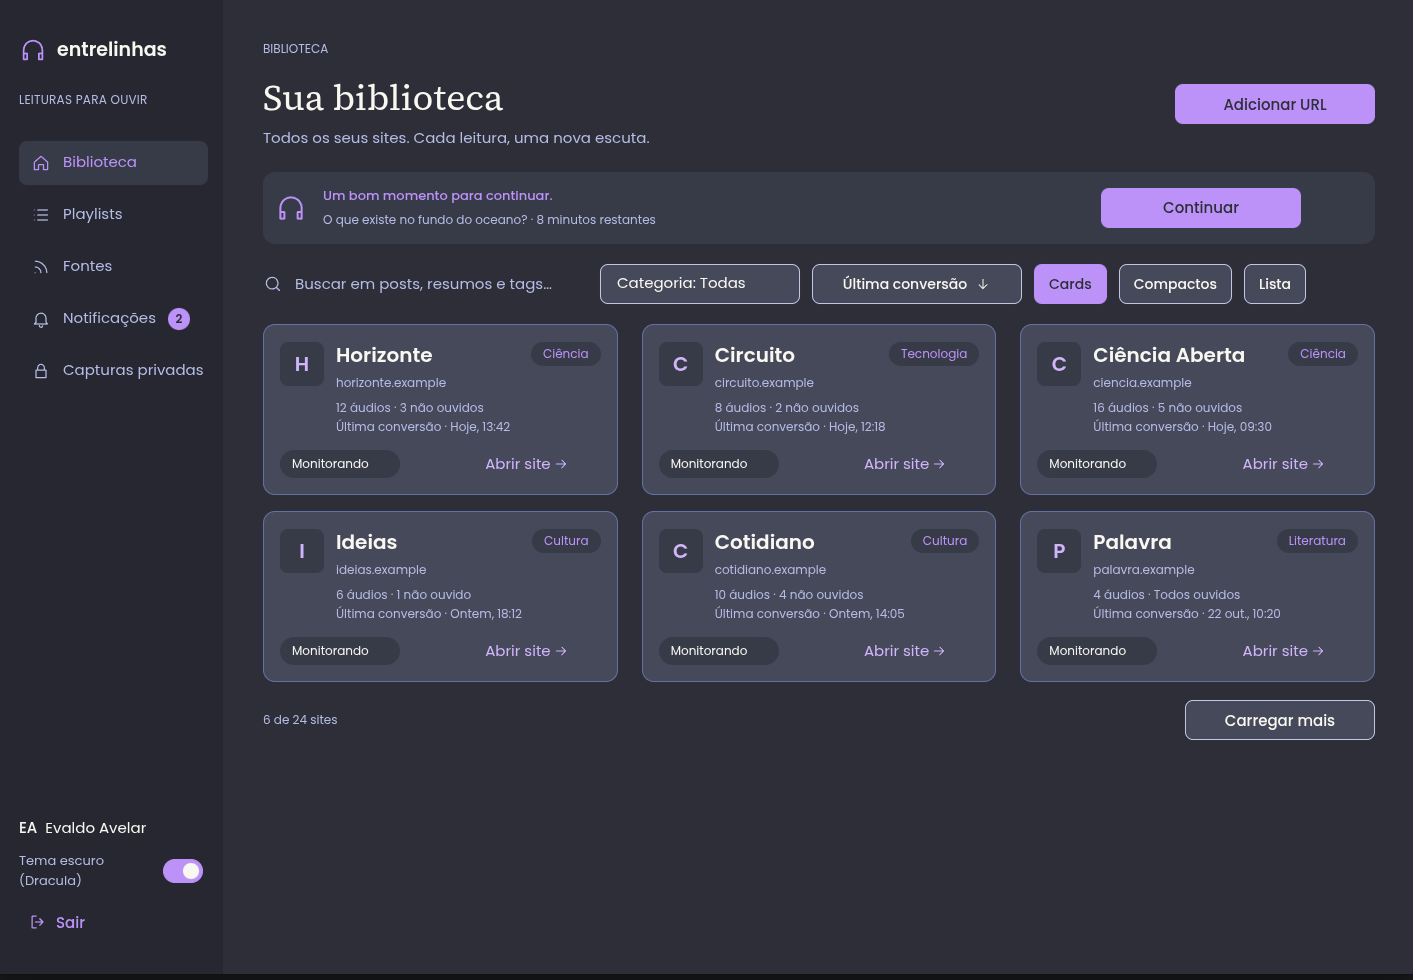
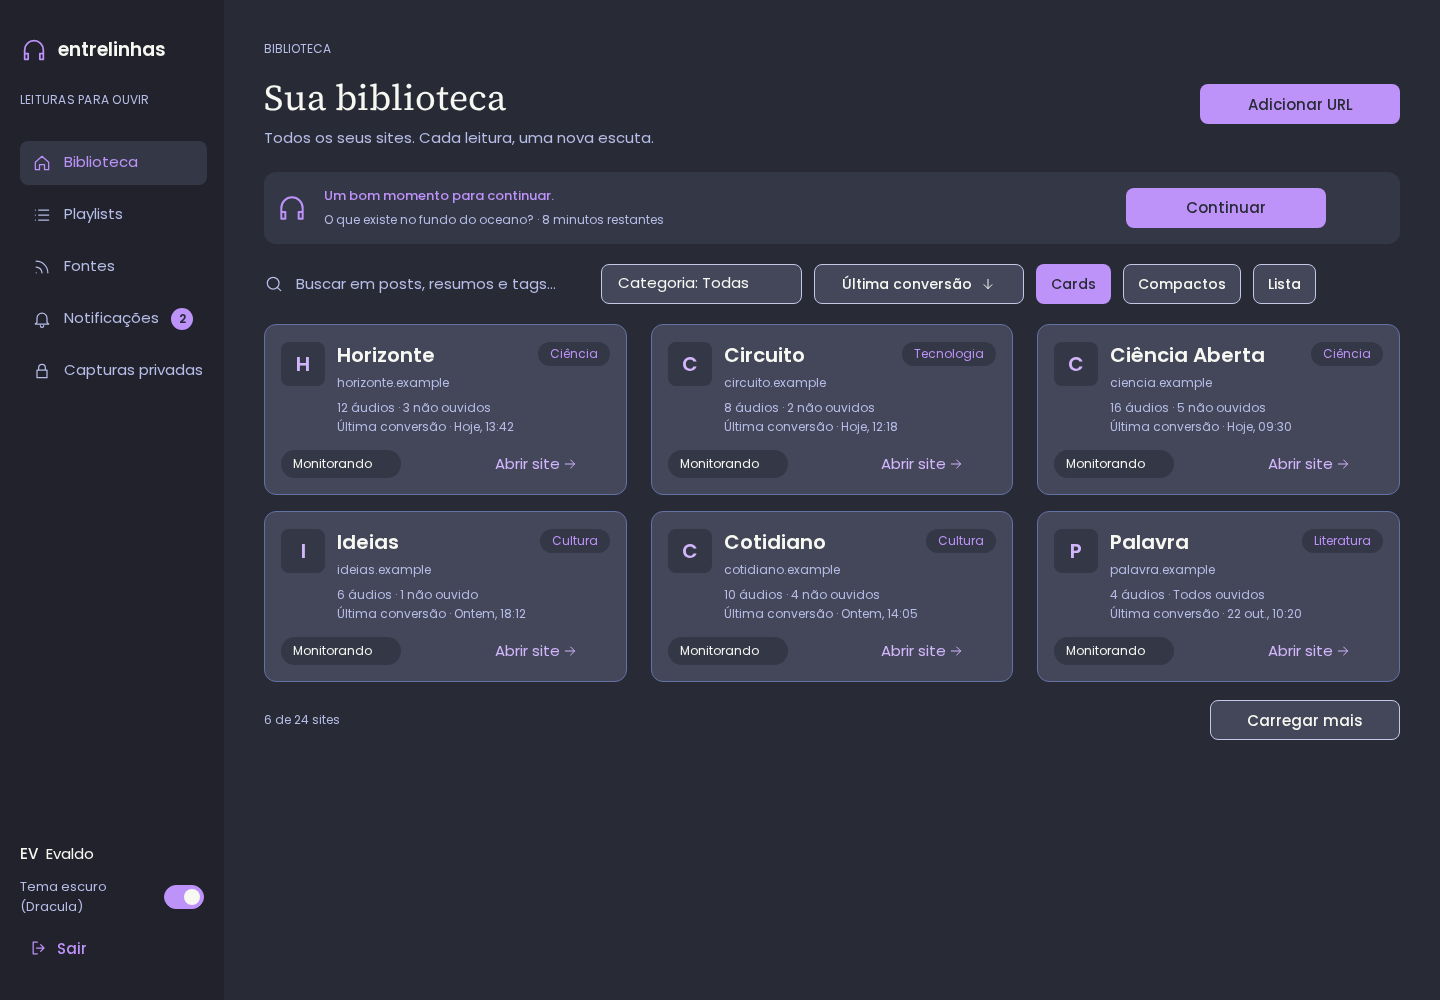
chore: remove mentions of Evaldo Avelar and ValueTI from codebase, docs and preview asset

diff --git a/tests/e2e/login.spec.ts b/tests/e2e/login.spec.ts
@@ -4,10 +4,10 @@ test('household login: keyboard profile choice, wrong password, then library (RF
   await page.goto('/library');
   await expect(page.getByRole('heading', { level: 1, name: 'Quem vai ouvir?' })).toBeVisible();
   const group = page.getByRole('radiogroup', { name: 'Perfil' });
-  await expect(group.getByRole('radio', { name: 'Evaldo Avelar' })).toBeChecked();
+  await expect(group.getByRole('radio', { name: 'Evaldo' })).toBeChecked();
 
   // Keyboard: arrows move the selection inside the radio group.
-  await group.getByRole('radio', { name: 'Evaldo Avelar' }).focus();
+  await group.getByRole('radio', { name: 'Evaldo' }).focus();
   await page.keyboard.press('ArrowRight');
   await expect(group.getByRole('radio', { name: 'Ana' })).toBeChecked();
   await expect(group.getByRole('radio', { name: 'Ana' })).toBeFocused();
@@ -33,7 +33,7 @@ test('admin link leads to the individual admin login', async ({ page }) => {
 // Reviewed baselines (frame 26 comparison in docs/tasks/handoffs/TASK-010.md); never auto-updated.
 test('login visual baseline (frame 26, TASK-010)', async ({ page }, info) => {
   await page.goto('/login');
-  await expect(page.getByRole('radio', { name: 'Evaldo Avelar' })).toBeChecked();
+  await expect(page.getByRole('radio', { name: 'Evaldo' })).toBeChecked();
   const password = page.getByLabel('Senha da casa');
   await password.fill('casa-exemplo');
   await password.blur();

diff --git a/apps/frontend/src/features/auth/LoginPage.test.tsx b/apps/frontend/src/features/auth/LoginPage.test.tsx
@@ -25,7 +25,7 @@ function renderLogin(from?: string) {
 test('loads public profiles as an accessible radio group and selects one by keyboard', async () => {
   renderLogin();
   const group = await screen.findByRole('radiogroup', { name: 'Perfil' });
-  const evaldo = within(group).getByRole('radio', { name: 'Evaldo Avelar' });
+  const evaldo = within(group).getByRole('radio', { name: 'Evaldo' });
   const ana = within(group).getByRole('radio', { name: 'Ana' });
   expect(evaldo).toBeChecked();
   expect(screen.getByText(/PIN para capturas privadas/)).toBeInTheDocument();
@@ -95,6 +95,6 @@ test('successful login without return location goes to library', async () => {
   await screen.findByRole('radio', { name: 'Ana' });
   await userEvent.type(screen.getByLabelText('Senha da casa'), 'casa-exemplo');
   await userEvent.click(screen.getByRole('button', { name: 'Entrar' }));
-  expect(await screen.findByText('Destino: Evaldo Avelar')).toBeInTheDocument();
+  expect(await screen.findByText('Destino: Evaldo')).toBeInTheDocument();
   expect(router.state.location.pathname).toBe('/library');
 });

diff --git a/apps/frontend/src/theme/tokens.css b/apps/frontend/src/theme/tokens.css
@@ -1,7 +1,7 @@
 /*
  * Design tokens — single source (TASK-004). Colour pairs are checked for WCAG contrast by tokens.test.ts.
  * Dark = Dracula, sampled from prototype/*.png (docs/design/prototype-map.md).
- * Light = ValueTI white/blue/gold: no frame exists; derived with the same geometry (design extension).
+ * Light = white/blue/gold: no frame exists; derived with the same geometry (design extension).
  * Divergence: frames use Dracula "comment" #6272a4 for secondary text (1.94:1 on cards); muted text is
  * lightened to keep CA27, and purple text on cards uses a lighter tint of the primary.
  */

diff --git a/apps/frontend/src/app/shell.test.tsx b/apps/frontend/src/app/shell.test.tsx
@@ -36,7 +36,7 @@ test('signed-in shell shows navigation, current page, profile and unread badge',
   const nav = await screen.findByRole('navigation', { name: 'Principal' });
   expect(within(nav).getByRole('link', { name: 'Biblioteca' })).toHaveAttribute('aria-current', 'page');
   expect(within(nav).getByRole('link', { name: /Notificações/ })).toHaveAccessibleName('Notificações 2 notificações não lidas');
-  expect(screen.getByText('Evaldo Avelar')).toBeInTheDocument();
+  expect(screen.getByText('Evaldo')).toBeInTheDocument();
   expect(screen.getByRole('main')).toBeInTheDocument();
 });
 

diff --git a/apps/frontend/src/mocks/handlers/session.ts b/apps/frontend/src/mocks/handlers/session.ts
@@ -80,6 +80,6 @@ export const sessionHandlers = [
       return errorResponse(401, 'invalid_credentials', 'Usuário, senha ou código incorretos.');
     }
     const expires = new Date(Date.parse(MOCK_NOW) + 15 * 60_000).toISOString();
-    return ok(AdminSession, { admin: { id: 'adm_evaldo', username: 'evaldo', display_name: 'Evaldo Avelar' }, idle_expires_at: expires }, 201);
+    return ok(AdminSession, { admin: { id: 'adm_evaldo', username: 'evaldo', display_name: 'Evaldo' }, idle_expires_at: expires }, 201);
   }),
 ];

diff --git a/apps/frontend/src/mocks/fixtures.ts b/apps/frontend/src/mocks/fixtures.ts
@@ -6,7 +6,7 @@ export const MOCK_NOW = '2026-10-27T15:00:00-03:00';
 export const HOUSEHOLD_PASSWORD = 'casa-exemplo';
 
 export const profiles: ProfilePublic[] = [
-  { id: 'prof_evaldo', display_name: 'Evaldo Avelar', initials: 'EA', has_pin: true },
+  { id: 'prof_evaldo', display_name: 'Evaldo', initials: 'EV', has_pin: true },
   { id: 'prof_ana', display_name: 'Ana', initials: 'AN', has_pin: false },
   { id: 'prof_convidado', display_name: 'Convidado', initials: 'CV', has_pin: false },
 ];

diff --git a/apps/frontend/src/mocks/mocks.test.ts b/apps/frontend/src/mocks/mocks.test.ts
@@ -36,7 +36,7 @@ describe('session (simulated)', () => {
 
   test('public profiles list', async () => {
     const { items } = await api.listPublicProfiles();
-    expect(items.map((p) => p.initials)).toEqual(['EA', 'AN', 'CV']);
+    expect(items.map((p) => p.initials)).toEqual(['EV', 'AN', 'CV']);
   });
 
   test('admin login requires username, password and TOTP (simulated)', async () => {

diff --git a/docs/specs/requisitos-leitor-de-blogs.md b/docs/specs/requisitos-leitor-de-blogs.md
@@ -55,7 +55,7 @@ Uma casa, biblioteca comum e perfis de escuta, sem múltiplas famílias/cobranç
 | RF37 | Permitir alternar a visualização do dashboard entre cards, cards compactos e lista. | Solicitado |
 | RF38 | Carregar os itens do dashboard sob demanda, mantendo pesquisa e ordenação sobre o conjunto completo. | Solicitado; consistência de pesquisa/ordenação proposta |
 | RF39 | Preservar o modo de visualização escolhido entre visitas. | Proposta |
-| RF40 | Oferecer tema escuro baseado em Dracula e tema claro branco, dourado e azul alinhado à logo ValueTI fornecida. | Solicitado |
+| RF40 | Oferecer tema escuro baseado em Dracula e tema claro branco, dourado e azul. | Solicitado |
 | RF41 | Permitir alternar temas e salvar a preferência no perfil. | Proposta |
 | RF42 | Atender uma casa com biblioteca compartilhada, senha de escuta e seleção de perfis; capturas privadas têm exceção de visibilidade e desbloqueio individual. | Escopo doméstico confirmado; privacidade da revisão |
 | RF43 | Oferecer troca de perfil e manter progresso, histórico de escuta e playlists separados por perfil. | Seleção solicitada; isolamento proposto |
@@ -109,7 +109,7 @@ Dashboard em cards, compactos e lista; filtros de busca/categoria combinam com o
 
 Player com pausa/retomada, velocidade, fila e voz consistente; download não equivale a ouvido. Playlist referencia artigo lógico e fixa a versão durante a reprodução; indisponível é sinalizado/pulado. Nova voz da mesma versão preserva ouvido lógico; conteúdo alterado ganha versão de consumo própria.
 
-Claro branco/azul/dourado alinhado à logo ValueTI e escuro Dracula, com contraste/foco/teclado e preferência por perfil. “Entrelinhas” continua nome provisório, sem mudança de marca decidida nesta revisão.
+Claro branco/azul/dourado e escuro Dracula, com contraste/foco/teclado e preferência por perfil.
 
 ## 4. Conteúdo, imagens, voz e captura
 
@@ -304,7 +304,7 @@ TDD, cobertura e CI são obrigações desde a fundação. Limites numéricos, ja
 - v0.1: entrada URL, biblioteca por site, automação, tags/capa/resumo, retenção, OpenRouter/MCP.
 - v0.2: descrição narrada de imagens e voz gratuita selecionável.
 - v0.3: análise visual configurável/alternativa textual, Docker, playlists e três visualizações.
-- v0.4: temas ValueTI/Dracula, perfis, links e categorias.
+- v0.4: temas Claro/Dracula, perfis, links e categorias.
 - v0.5: ponte Python/execução agy automática proposta inicialmente por webhook.
 - v0.6: instalação agy/Python em Docker confirmada; coabitação inicialmente proposta.
 - v0.7: defesa contra prompt injection, ponte/runner separados e Slim opcional.

diff --git a/docs/design/prototype-map.md b/docs/design/prototype-map.md
@@ -7,7 +7,7 @@ Fonte complementar: `prototype/Entrelinhas — Leitor de blogs em áudio.figcraf
 ## Observações globais (derivadas dos frames)
 
 - **Tema:** todos os 37 frames são Dracula (escuro). Cores amostradas por pixel: fundo `#282a36`, sidebar/topo público `#21222c`, superfície `#44475a`, superfície rebaixada `#343746`, roxo `#bd93f9` (primário/ativo), verde `#50fa7b`, ciano `#8be9fd`, laranja `#ffb86c`, vermelho Dracula (`#ff5555`, ações destrutivas), texto secundário `#6272a4` (comment), texto principal `#f8f8f2`.
-- **Tema claro ValueTI:** **não há frame**. Extensão do design: mesma geometria, branco/azul/dourado via tokens (TASK-004), registrado como derivação.
+- **Tema claro:** **não há frame**. Extensão do design: mesma geometria, branco/azul/dourado via tokens (TASK-004), registrado como derivação.
 - **Tipografia:** títulos de página em serifa (estilo Source Serif); UI em sans geométrica (Poppins nos frames 19–37; frames 01–15 têm sans geométrica muito próxima). Decisão: Source Serif 4 (display) + Poppins (UI), empacotadas localmente via `@fontsource` (sem CDN, determinístico para screenshots).
 - **Layout desktop 1440×1000:** sidebar fixa 224px (logo, subtítulo, navegação, card de status, perfil); conteúdo a partir de x=264 com margem direita 40; título serifado ~36px em y≈97; ação primária no topo direito (200×40, raio 8); barra do player fixa ~105px no rodapé com borda superior.
 - **Admin:** sidebar com rótulo laranja "PAINEL DO ADMINISTRADOR", navegação própria e card "Sessão de administrador · expira após 15 min sem uso"; abas em botões (Imagens, Voz e limpeza, Integrações, Pareamentos, Quotas e backlog, Telegram). Sem barra de player.
@@ -60,7 +60,7 @@ Fonte complementar: `prototype/Entrelinhas — Leitor de blogs em áudio.figcraf
 
 | Lacuna | Derivação |
 | --- | --- |
-| Tema claro ValueTI de todas as telas | Tokens claros, mesma geometria (TASK-004) |
+| Tema claro de todas as telas | Tokens claros, mesma geometria (TASK-004) |
 | Mobile de telas além da biblioteca | Padrão do frame 16: tab bar inferior, mini player, cards em coluna |
 | Estados vazio/carregando/erro 4xx/5xx/429/503 genéricos | Superfície `#343746` com callout; skeletons nas dimensões dos cards |
 | Sessão expirada (401) e perfil bloqueado em rotas privadas | Redirecionar para frames 26/29 com mensagem |

diff --git a/docs/tasks/handoffs/TASK-012.md b/docs/tasks/handoffs/TASK-012.md
@@ -29,7 +29,7 @@
 Frames (sha256 prefixo): 01 `c0af61b48c8cfc42`, 02 `fbabbcb1a1f89fc4`, 03 `cc96d0fcecc70d4b`, 16 `242cb729e5bf95fe`, 18 `6361b3ff49e486a1`. Abertos e comparados com capturas da app em 1440×1000 (dark/light) e 390×1100 (dark/light). Evidência: `docs/design/evidence/TASK-012/` (cópia estática das baselines `tests/e2e/library.spec.ts-snapshots/`).
 
 - Conferem: cabeçalho e botão "Adicionar URL" 200 px; banner "continuar"; toolbar em uma linha (busca sem caixa, categoria, ordenar 210 px, modos); grade 3 colunas (cards), 2 (compactos), 1 (lista, colunas nome/categoria/métricas); cartões 12 px de raio com chip de categoria, métricas recuadas sob o nome, "Monitorando" e "Abrir site →"; "Carregar mais" 190 px; menu do frame 18 (grupos, ✓, nota).
-- Diferenças justificadas: ícone do site usa só a inicial ("C" para Circuito/Ciência Aberta/Cotidiano; o frame usa "Ci"/"Co" sem regra definida no contrato); rodapé "6 de 24 sites" sem "Mais itens ao rolar" (não há rolagem infinita, só "Carregar mais"); banner "continuar" aparece também em compactos/lista (frames 02/03 sem banner; comportamento igual nos três modos, CA21); select de categoria com seta nativa removida (como no frame). Móvel (frame 16): mantidos o select de categoria, o chip, o rodapé com "Abrir site" e o banner, que o frame omite mas os requisitos exigem (RF04/05, RF45); botões de modo como ícones com nome acessível em texto oculto. Claro: derivado dos tokens ValueTI, sem frame. PlayerBar do frame 01/16 é TASK-021.
+- Diferenças justificadas: ícone do site usa só a inicial ("C" para Circuito/Ciência Aberta/Cotidiano; o frame usa "Ci"/"Co" sem regra definida no contrato); rodapé "6 de 24 sites" sem "Mais itens ao rolar" (não há rolagem infinita, só "Carregar mais"); banner "continuar" aparece também em compactos/lista (frames 02/03 sem banner; comportamento igual nos três modos, CA21); select de categoria com seta nativa removida (como no frame). Móvel (frame 16): mantidos o select de categoria, o chip, o rodapé com "Abrir site" e o banner, que o frame omite mas os requisitos exigem (RF04/05, RF45); botões de modo como ícones com nome acessível em texto oculto. Claro: derivado dos tokens claros, sem frame. PlayerBar do frame 01/16 é TASK-021.
 
 ## Limitações / próximo passo
 

diff --git a/docs/tasks/handoffs/TASK-010.md b/docs/tasks/handoffs/TASK-010.md
@@ -34,7 +34,7 @@ Em ambiente com escrita no git e porta local disponível, o líder deve registra
 - Commit do worker registrado pelo líder em `44379c2` (sandbox sem escrita no git). Merge da `main` (`d7cda13`) na branch.
 - Router: `/login` → `LoginPage` (arquivo de dono único, alterado pelo líder). RED antes: teste `the /login route signs in…` em `src/app/shell.test.tsx` falhou com `Unable to find role="radio" and name "Ana"`; GREEN após a troca.
 - E2E: as duas verificações de contrato da spec original **falhavam no navegador real** (`fetch` antes de o service worker do MSW controlar a página → `index.html`, `Unexpected token '<'`); defeito do teste, não do produto (a UI só monta após os mocks). Spec substituída por jornada de UI (teclado no radiogroup, senha errada, Enter → biblioteca), link de admin e evidência; o `test.fixme` foi removido. `PW_PORT=4175 npx playwright test tests/e2e/login.spec.ts`: 12 passed (4 projetos).
-- Revisão visual (frame 26 vs `docs/design/evidence/TASK-010/login-dark-desktop.png`, 1440×1000): geometria do cartão, título serifado, campo, cartões de perfil, CTA e link conferem. Corrigido: marca em 700 (frame bold) e cartões de perfil com 128 px (antes esticavam). Diferenças aceitas: subtítulo/explicação usam `--color-text-muted` em vez do azul `#6272a4` do frame (contraste WCAG insuficiente sobre `#44475a`); "Evaldo Avelar" vem da fixture (frame mostra "Evaldo"); cartão ~10 px mais baixo (centralização vertical). Móvel e claro derivados (sem frame); nome longo truncado com reticências, nome acessível completo.
+- Revisão visual (frame 26 vs `docs/design/evidence/TASK-010/login-dark-desktop.png`, 1440×1000): geometria do cartão, título serifado, campo, cartões de perfil, CTA e link conferem. Corrigido: marca em 700 (frame bold) e cartões de perfil com 128 px (antes esticavam). Diferenças aceitas: subtítulo/explicação usam `--color-text-muted` em vez do azul `#6272a4` do frame (contraste WCAG insuficiente sobre `#44475a`); "Evaldo" vem da fixture (alinhado ao frame); cartão ~10 px mais baixo (centralização vertical). Móvel e claro derivados (sem frame); nome longo truncado com reticências, nome acessível completo.
 
 ### Revisão Codex r1 (REPROVADO) → correções
 

diff --git a/docs/specs/extensao-navegador-especificacao.md b/docs/specs/extensao-navegador-especificacao.md
@@ -4,7 +4,7 @@ Data: 25/10/2026. Requisitos v1.4, plano técnico v0.8, decisoes-e-estados.md v0
 
 ## 1. Escopo e experiência
 
-Chromium desktop primeiro; Brave real será qualificado se escolhido no Gate 0. Opera/Firefox são evolução com adaptadores/manifests/testes próprios, não suporte automático. Projeto TypeScript candidato apps/browser-extension, núcleo de URL/API/config/preview separado de BrowserAdapter. Manifest V3 e dependências mínimas; UI pequena com temas Claro ValueTI/Dracula. Build/pacote/versão próprios; Docker pode construir, mas a extensão roda no browser, não no Compose.
+Chromium desktop primeiro; Brave real será qualificado se escolhido no Gate 0. Opera/Firefox são evolução com adaptadores/manifests/testes próprios, não suporte automático. Projeto TypeScript candidato apps/browser-extension, núcleo de URL/API/config/preview separado de BrowserAdapter. Manifest V3 e dependências mínimas; UI pequena com temas Claro/Dracula. Build/pacote/versão próprios; Docker pode construir, mas a extensão roda no browser, não no Compose.
 
 Servidor HTTPS continua configurável conforme RF62, com default de build opcional. Build fixo/policy para uma instalação é variante futura, não remoção da configuração solicitada. Navegador alcança API privada pela LAN/VPN; sem conexão, não abrir porta pública nem usar o domínio de shares como fallback.
 
